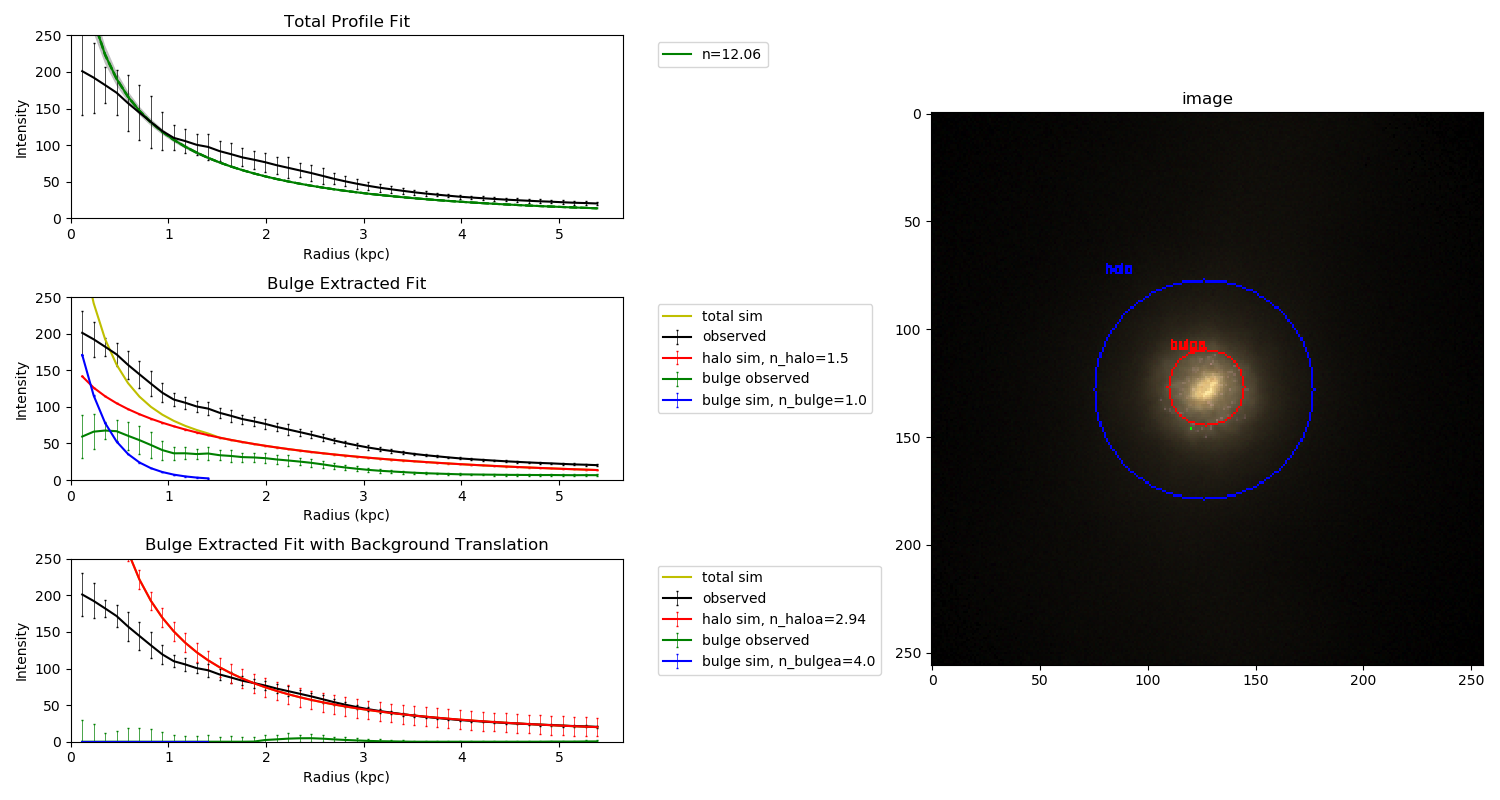
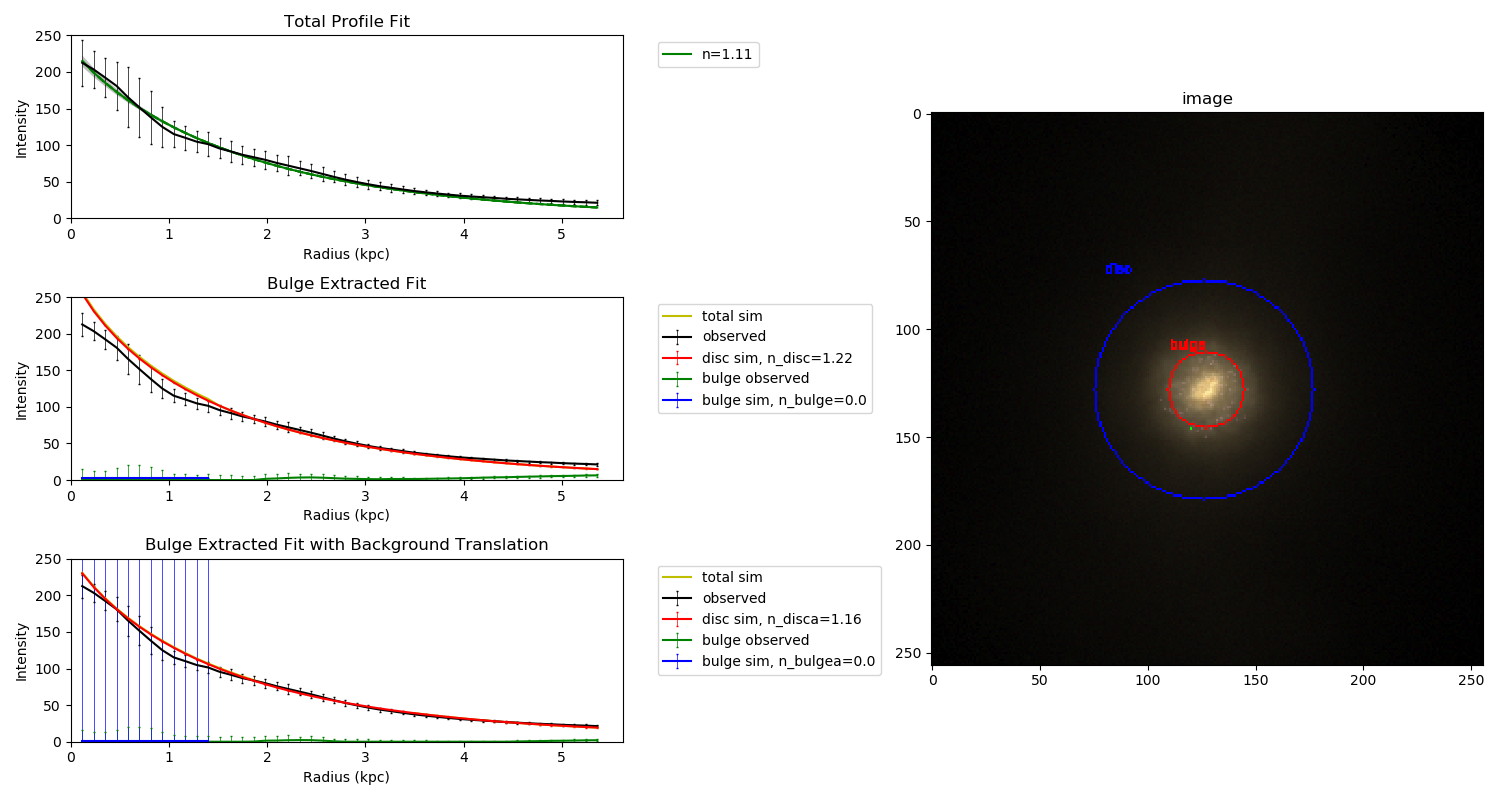
Radial Profile changes and graphs

diff --git a/RadialProfile.py b/RadialProfile.py
@@ -66,7 +66,7 @@ def twocomponentmodel(r, I_e, R_e, n):
 	return I1+I2
 
 def findbulge(image, imagefile):
-	#locates central bulge and diffuse halo, and marks this on the image
+	#locates central bulge and diffuse disc, and marks this on the image
 	imagecopy=image.copy()
 	median=np.median(image)
 	std=np.std(image)
@@ -110,7 +110,7 @@ def findbulge(image, imagefile):
 	else:
 		((bcX, bcY), bradius) = ((0,0),0)
 	print("bulge radius:{},  bulge centre({},{})".format(bradius, bcX,bcY))
-	#find halo
+	#find disc
 	labels2 = measure.label(thresh2, neighbors=8, background=0)
 	mask2 = np.zeros(thresh2.shape, dtype="uint8")	
 	for label in np.unique(labels2):
@@ -131,7 +131,7 @@ def findbulge(image, imagefile):
 		((hcX, hcY), hradius) = cv2.minEnclosingCircle(c)
 	else:
 		((hcX, hcY), hradius) = ((0,0),0)
-	print("halo radius:{}, halo centre({},{})".format(hradius, hcX,hcY))
+	print("disc radius:{}, disc centre({},{})".format(hradius, hcX,hcY))
 	return bradius,hradius, (hcX,hcY), (bcX,bcY)
 
 def run_radial_profile(image, imagefile, sim_name):
@@ -163,31 +163,30 @@ def run_radial_profile(image, imagefile, sim_name):
 	bhindex=int((bindex+hindex)/2)
 
 	
-
-
-	popthaloa, pcovhaloa=curve_fit(SersicProfilea, r[bindex:hindex], rad[bindex:hindex], p0=(i_e, r_e, 1,0), bounds=((i_e-1,r_e-0.1,0,0), (i_e+1,r_e+0.1,2,20)), sigma=stdbins[bindex:hindex], absolute_sigma=True)
-	n_haloa=popthaloa[2]
-	print("I_ehaloa={}, R_ehaloa={}, n_haloa={}, ahaloa={}".format(popthaloa[0], popthaloa[1], n_haloa, popthaloa[3]))
-	isolated_halosima=SersicProfilea(r, popthaloa[0], popthaloa[1],n_haloa,popthaloa[3])
-	isolated_bulgea= rad - isolated_halosima
+	
+	poptdisca, pcovdisca=curve_fit(SersicProfilea, r[bindex:hindex], rad[bindex:hindex], p0=(i_e, r_e, 1,0), bounds=((i_e-1,r_e-0.1,0,0), (i_e+1,r_e+0.1,2,20)), sigma=stdbins[bindex:hindex], absolute_sigma=True)
+	n_disca=poptdisca[2]
+	print("I_edisca={}, R_edisca={}, n_disca={}, adisca={}".format(poptdisca[0], poptdisca[1], n_disca, poptdisca[3]))
+	isolated_discsima=SersicProfilea(r, poptdisca[0], poptdisca[1],n_disca,poptdisca[3])
+	isolated_bulgea= rad - isolated_discsima
 	isolated_bulgea[isolated_bulgea<0]=0
 	i_ebulgea, r_ebulgea, centralbrightnessbulgea, totalbrightnessbulgea= findeffectiveradius(isolated_bulgea[0:bhindex], r[0:bhindex], nr[0:bhindex]) 
 	poptbulgea, pcovbulgea=curve_fit(SersicProfilea, r[0:bindex], isolated_bulgea[0:bindex], p0=(i_ebulgea, r_ebulgea, 4,0), bounds=((i_ebulgea-1,r_ebulgea-0.1,0,0), (i_ebulgea+1,r_ebulgea+0.1,8,20)), sigma=stdbins[0:bindex], absolute_sigma=True)
 	n_bulgea= poptbulgea[2]
 	isolated_bulgesima= SersicProfilea(r, poptbulgea[0], poptbulgea[1], n_bulgea, poptbulgea[3])
 	isolated_bulgesima[bindex:]=0
-	totalsima=isolated_bulgesima+isolated_halosima
+	totalsima=isolated_bulgesima+isolated_discsima
 	print("I_ebulgea={}, R_ebulgea={}, n_bulgea={}, abulgea={}".format(poptbulgea[0],poptbulgea[1], n_bulgea, poptbulgea[2]))
 
 
 
 
-	popthalo, pcovhalo = curve_fit(lambda x,n: SersicProfile(x, i_e, r_e, n), r[bindex:bhindex], rad[bindex:bhindex], sigma=stdbins[bindex:bhindex], bounds=(0,2), absolute_sigma=True)
-	n_halo=popthalo[0]
-	n_halo_error=pcovhalo[0,0]
-	print("I_ehalo={}, R_ehalo={}, n_halo={}".format(i_e, r_e, n_halo))
-	isolated_halosim=SersicProfile(r, i_e, r_e, n_halo)
-	isolated_bulge= rad - isolated_halosim
+	poptdisc, pcovdisc = curve_fit(lambda x,n: SersicProfile(x, i_e, r_e, n), r[bindex:bhindex], rad[bindex:bhindex], sigma=stdbins[bindex:bhindex], bounds=(0,2), absolute_sigma=True)
+	n_disc=poptdisc[0]
+	n_disc_error=pcovdisc[0,0]
+	print("I_edisc={}, R_edisc={}, n_disc={}".format(i_e, r_e, n_disc))
+	isolated_discsim=SersicProfile(r, i_e, r_e, n_disc)
+	isolated_bulge= rad - isolated_discsim
 	isolated_bulge[isolated_bulge<0]=0
 	i_ebulge, r_ebulge, centralbrightnessbulge, totalbrightnessbulge= findeffectiveradius(isolated_bulge[0:bhindex], r[0:bhindex], nr[0:bhindex]) 
 	poptbulge, pcovbulge = curve_fit(lambda x,n: SersicProfile(x, i_ebulge, r_ebulge, n), r[0:bindex], isolated_bulge[0:bindex],p0=4, sigma=stdbins[0:bindex], bounds=(0,10), absolute_sigma=True)
@@ -196,61 +195,72 @@ def run_radial_profile(image, imagefile, sim_name):
 	print("I_ebulge={}, R_ebulge={}, n_bulge={}".format(i_ebulge,r_ebulge, n_bulge))
 	isolated_bulgesim= SersicProfile(r, i_ebulge, r_ebulge, n_bulge)
 	isolated_bulgesim[bindex:]=0
-	totalsim=isolated_bulgesim+isolated_halosim
+	totalsim=isolated_bulgesim+isolated_discsim
 
-	"""
 
-	#chi vs n for n_halo
-	chis1=[]
-	for n in np.linspace(0.1,20.0, 40):
-		res= r[bindex:hindex] - SersicProfile(rad[bindex:hindex], i_e, r_e, n)
-		chi=np.sqrt(sum((res/stdbins[bindex:hindex])**2))
-		chis1.append(chi)
-	plt.plot(np.linspace(0.1,20.0, 40), chis1)
-	plt.show()
+	#chi vs n for n_disc
+	chisdisc=[]
+	chisbulge=[]
+	ndisc=[]
+	nbulge=[]
+	chisdisca=[]
+	chisbulgea=[]
+	ndisca=[]
+	nbulgea=[]
+	ntot=[]
+	chistot=[]
+	for n in np.linspace(0.15,5.0, 200):
+		n1, pcov1 = curve_fit(lambda x,n: SersicProfile(x, i_e, r_e, n), r, rad, p0=n, bounds=(n-0.001,n+0.001), sigma=stdbins, absolute_sigma=True)
+		n1=n1[0]
+		n1_error=pcov1[0,0]
 
-	chis2=[]
-	for n in np.linspace(0.1,1.0, 40):
-		res= r - SersicProfile(isolated_bulge, i_e, r_e, n)
-		chi=np.sqrt(sum(np.abs((res/stdbins)**2)))
-		chis2.append(chi)
-	plt.plot(np.linspace(0.1,1.0, 40), chis2)
-	plt.show()
+		poptdisc, pcovdisc = curve_fit(lambda x,n: SersicProfile(x, i_e, r_e, n), r[bindex:bhindex], rad[bindex:bhindex], sigma=stdbins[bindex:bhindex], p0=n, bounds=(n-0.001,n+0.001), absolute_sigma=True)
+		n_disc=poptdisc[0]
+		n_disc_error=pcovdisc[0,0]
+		poptbulge, pcovbulge = curve_fit(lambda x,n: SersicProfile(x, i_ebulge, r_ebulge, n), r[0:bindex], isolated_bulge[0:bindex],p0=n, sigma=stdbins[0:bindex], bounds=(n-0.001,n+0.001), absolute_sigma=True)
+		n_bulge= poptbulge[0]
+		n_bulge_error= pcovbulge[0,0]
 	
-	chis3=[]
-	for n in np.linspace(0.1,20.0, 40):
-		res= r[bindex:hindex] - SersicProfilea(rad[bindex:hindex], popthaloa[0], popthaloa[1], n, popthaloa[3])
-		chi=np.sqrt(sum((res/stdbins[bindex:hindex])**2))
-		chis3.append(chi)
-	plt.plot(np.linspace(0.1,20.0, 40), chis3)
-	plt.show()
+		poptdisca, pcovdisca=curve_fit(SersicProfilea, r[bindex:hindex], rad[bindex:hindex], p0=(i_e, r_e, n,0), bounds=((i_e-1,r_e-0.1,n-0.001,0), (i_e+1,r_e+0.1,n+0.001,20)), sigma=stdbins[bindex:hindex], absolute_sigma=True)
+		n_disca=poptdisca[2]
+		n_disc_errora=pcovdisca[2,2]
+		poptbulgea, pcovbulgea=curve_fit(SersicProfilea, r[0:bindex], isolated_bulgea[0:bindex], p0=(i_ebulgea, r_ebulgea, n,0), bounds=((i_ebulgea-1,r_ebulgea-0.1,n-0.001,0), (i_ebulgea+1,r_ebulgea+0.1,n+0.001,20)), sigma=stdbins[0:bindex], absolute_sigma=True)
+		n_bulgea= poptbulgea[2]
+		n_bulge_errora=pcovdisca[2,2]
 
-	chis4=[]
-	for n in np.linspace(0.1,1.0, 40):
-		res= r - SersicProfilea(isolated_bulgea, i_e, r_e, n, poptbulgea[3])
-		chi=np.sqrt(sum((res/stdbins)**2))
-		chis4.append(chi)
-	plt.plot(np.linspace(0.1,1.0, 40), chis4)
+		#res= r[bindex:hindex] - isolated_discsim[bindex:hindex]
+		#chi=np.sqrt(sum((res/stdbins[bindex:hindex])**2))
+		chisdisc.append(n_disc_error)
+		chisbulge.append(n_bulge_error)
+		ndisc.append(n_disc)
+		nbulge.append(n_bulge)
+		chisdisca.append(n_disc_errora)
+		chisbulgea.append(n_bulge_errora)
+		ndisca.append(n_disca)
+		nbulgea.append(n_bulgea)
+		ntot.append(n1)
+		chistot.append(n1_error)
+	chisdisca=np.array(chisdisca)
+	plt.plot(ntot, chistot, label='ntot')
+	plt.plot(ndisca, chisdisca+0.01, label='ndisca')
+	plt.plot(nbulgea, chisbulgea,label='nbulgea')
+	plt.plot(ndisc, chisdisc, label='ndisc')
+	plt.plot(nbulge, chisbulge,label='nbulge')
+	plt.legend()
+	plt.yscale('log')
+	plt.xlabel('n'), plt.ylabel('$\chi ^2$')#, plt.ylim(0,0.025)
+	plt.title('Plot of $\chi ^2$ generated for each n')
+	plt.tight_layout()
+	plt.savefig('galaxygraphsbin'+sim_name+'/chisqrdvsn'+imagefile)
 	plt.show()
+	exit()
 
-	
-	
-	#chi vs n for n_total
-	chis5=[]
-	for n in np.linspace(0.1,20.0, 40):
-		res= r - SersicProfile(rad, i_e, r_e, n)
-		chi=np.sqrt(sum((res/stdbins)**2))
-		chis5.append(chi)
-	plt.plot(np.linspace(0.1,20.0, 40), chis5)
-	plt.show()
-
-	"""
 
 	fig=plt.figure(figsize=(15,8))
 
 	plt.subplot(321)
 	n1, pcov1 = curve_fit(lambda x,n: SersicProfile(x, i_e, r_e, n), r, rad, p0=2, bounds=(0.1,8), sigma=stdbins, absolute_sigma=True)
-	print("I_e={}, R_e={}, n_halo={}".format(i_e, r_e, n1))
+	print("I_e={}, R_e={}, n_disc={}".format(i_e, r_e, n1))
 	n_total=n1[0]
 	plt.errorbar(r, rad, yerr=(stdbins*2), fmt='', color='k', capsize=0.5, elinewidth=0.5)
 	plt.plot(r, SersicProfile(r,i_e, r_e, n_total +pcov1[0,0]), 'g--')
@@ -262,7 +272,7 @@ def run_radial_profile(image, imagefile, sim_name):
 
 	plt.subplot(323)
 	plt.errorbar(r, rad, yerr=(stdbins), fmt='', color='k', capsize=0.5, elinewidth=0.5, label='observed')
-	plt.errorbar(r, isolated_halosim, yerr=(np.sqrt(pcovhalo[0,0])), fmt='', color='r', capsize=0.5, elinewidth=0.5, label='halo sim, n_halo={}'.format(round(n_halo,2)))
+	plt.errorbar(r, isolated_discsim, yerr=(np.sqrt(pcovdisc[0,0])), fmt='', color='r', capsize=0.5, elinewidth=0.5, label='disc sim, n_disc={}'.format(round(n_disc,2)))
 	plt.errorbar(r, isolated_bulge, yerr=(stdbins), fmt='', color='g', capsize=0.5, elinewidth=0.5, label='bulge observed')
 	plt.errorbar(r[0:bindex], isolated_bulgesim[0:bindex], yerr=(np.sqrt(pcovbulge[0,0])), fmt='', color='b', capsize=0.5, elinewidth=0.5, label='bulge sim, n_bulge={}'.format(round(n_bulge,2)))
 	plt.plot(r[0:hindex],totalsim, color='y', label='total sim')
@@ -271,7 +281,7 @@ def run_radial_profile(image, imagefile, sim_name):
 
 	plt.subplot(325)
 	plt.errorbar(r, rad, yerr=(stdbins), fmt='', color='k', capsize=0.5, elinewidth=0.5, label='observed')
-	plt.errorbar(r, isolated_halosima, yerr=(np.sqrt(pcovhaloa[2,2])), fmt='', color='r', capsize=0.5, elinewidth=0.5, label='halo sim, n_haloa={}'.format(round(n_haloa,2)))
+	plt.errorbar(r, isolated_discsima, yerr=(np.sqrt(pcovdisca[2,2])), fmt='', color='r', capsize=0.5, elinewidth=0.5, label='disc sim, n_disca={}'.format(round(n_disca,2)))
 	plt.errorbar(r, isolated_bulgea, yerr=(stdbins), fmt='', color='g', capsize=0.5, elinewidth=0.5, label='bulge observed')
 	plt.errorbar(r[0:bindex], isolated_bulgesima[0:bindex], yerr=(np.sqrt(pcovbulgea[2,2])), fmt='', color='b', capsize=0.5, elinewidth=0.5, label='bulge sim, n_bulgea={}'.format(round(n_bulgea,2)))
 	plt.plot(r[0:hindex],totalsima, color='y', label='total sim')
@@ -285,7 +295,7 @@ def run_radial_profile(image, imagefile, sim_name):
 	plt.imshow(cv2image)
 	plt.title('image')
 	plt.tight_layout()
-	plt.savefig('galaxygraphsbin'+sim_name+'/TEST_n_halo(0.9,2)_Sersicfitradialbrightnessprofile'+imagefile)
+	plt.savefig('galaxygraphsbin'+sim_name+'/Sersicfitradialbrightnessprofile'+imagefile)
 	plt.show()
 	#plt.close()
 
@@ -331,7 +341,7 @@ def run_radial_profile(image, imagefile, sim_name):
 	plt.errorbar(r[0:hindex], rad[0:hindex], yerr=(stdbins[0:hindex]*2), fmt='', color='k', capsize=0.5, elinewidth=0.5)
 	plt.plot(r[0:bindex], SersicProfile(r[0:bindex],i_e, r_e,popt21), 'r-', label='bulge n={}'.format(round(popt21[0],2)))
 	#plt.plot(r, SersicProfile(r,i_e, r_e, popt2 +pcov2[0,0]), 'g--')
-	plt.plot(r[bindex:hindex], SersicProfile(r[bindex:hindex],i_e, r_e, popt22), 'g', label='halo n={} free'.format(round(popt22[0],2)))
+	plt.plot(r[bindex:hindex], SersicProfile(r[bindex:hindex],i_e, r_e, popt22), 'g', label='disc n={} free'.format(round(popt22[0],2)))
 	#plt.plot(r, SersicProfile(r,i_e, r_e, popt2 -pcov2[0,0]) , 'g--')
 	#plt.fill_between(r, SersicProfile(r,i_e, r_e, popt2 -pcov2[0,0]**0.5), SersicProfile(r,i_e, r_e, popt2 +pcov2[0,0]**0.5), facecolor='gray', alpha=0.5)
 	plt.title('Radius vs Pixel intensity'), plt.xlabel('Radius (kpc)'), plt.ylabel('Intensity'), plt.xlim(0), plt.ylim(0,250)
@@ -358,10 +368,10 @@ def run_radial_profile(image, imagefile, sim_name):
 	"""
 
 if __name__ == "__main__":
-	#sim_name=['RecalL0025N0752','']
-	#imagefileRecalL0025N0752=['RecalL0025N0752galface_621500.png','']
-	sim_name=['RecalL0025N0752', 'RefL0025N0376','RefL0050N0752']
-	imagefileRecalL0025N0752=['RecalL0025N0752galface_4938.png','RecalL0025N0752galface_621500.png','RecalL0025N0752galface_726306.png','RecalL0025N0752galface_51604.png']
+	sim_name=['RecalL0025N0752','']
+	imagefileRecalL0025N0752=['RecalL0025N0752galface_646493.png','']
+	#sim_name=['RecalL0025N0752', 'RefL0025N0376','RefL0050N0752']
+	#imagefileRecalL0025N0752=['RecalL0025N0752galface_646493.png','RecalL0025N0752galface_737885.png','RecalL0025N0752galface_746518.png','RecalL0025N0752galface_853401.png','RecalL0025N0752galface_4938.png','RecalL0025N0752galface_621500.png','RecalL0025N0752galface_726306.png','RecalL0025N0752galface_51604.png']
 	imagefileRefL0025N0376=['RefL0025N0376galface_1.png','RefL0025N0376galface_135107.png','RefL0025N0376galface_154514.png','RefL0025N0376galface_160979.png','RefL0025N0376galface_172979.png']
 	imagefileRefL0050N0752=['RefL0050N0752galface_2273534.png','RefL0050N0752galface_2276263.png','RefL0050N0752galface_514258.png','RefL0050N0752galface_2355640.png','RefL0050N0752galface_2639531.png']
 
